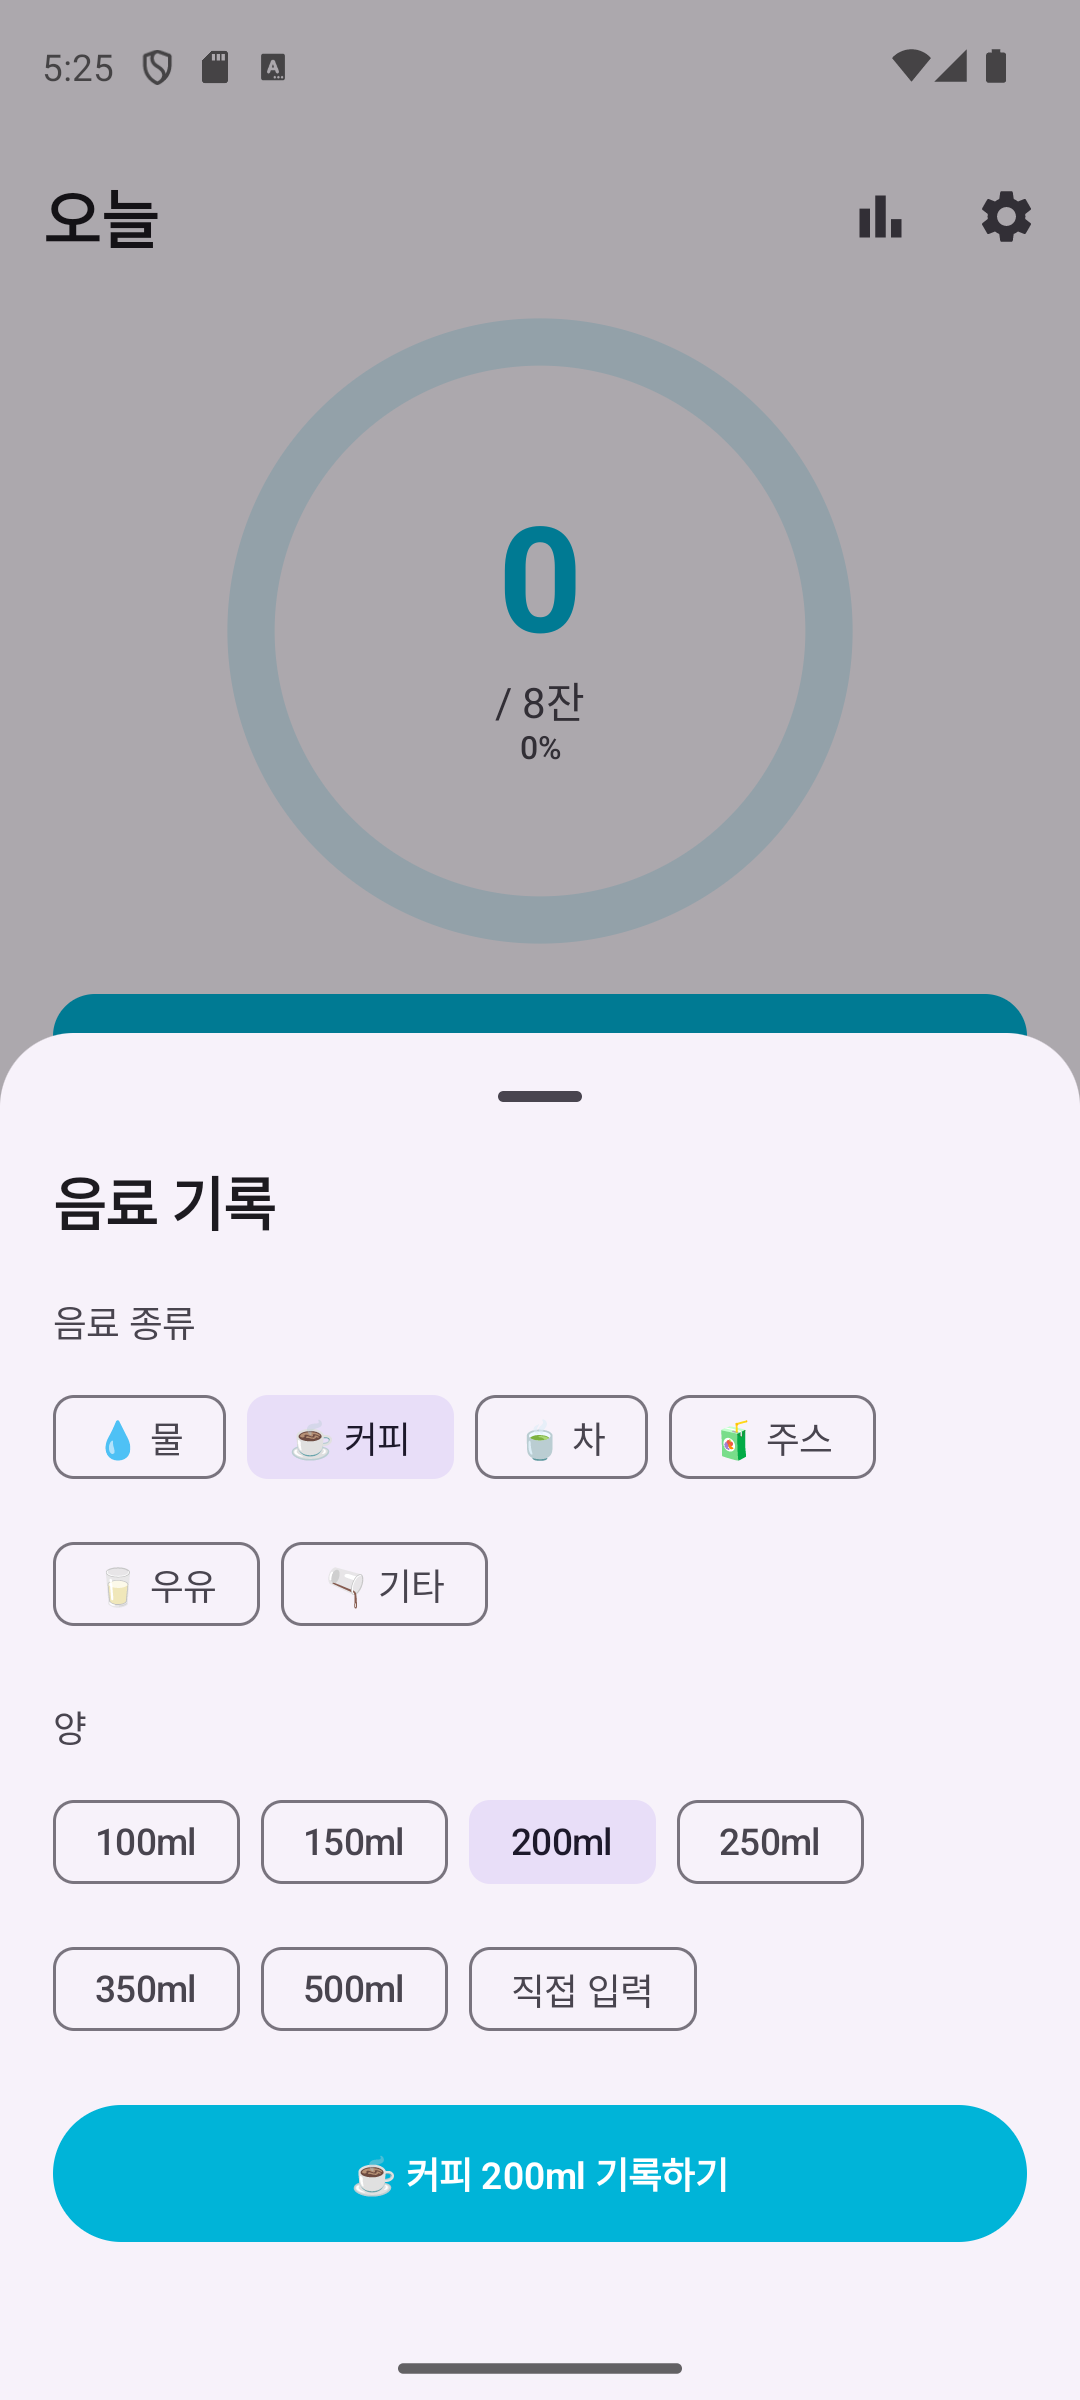
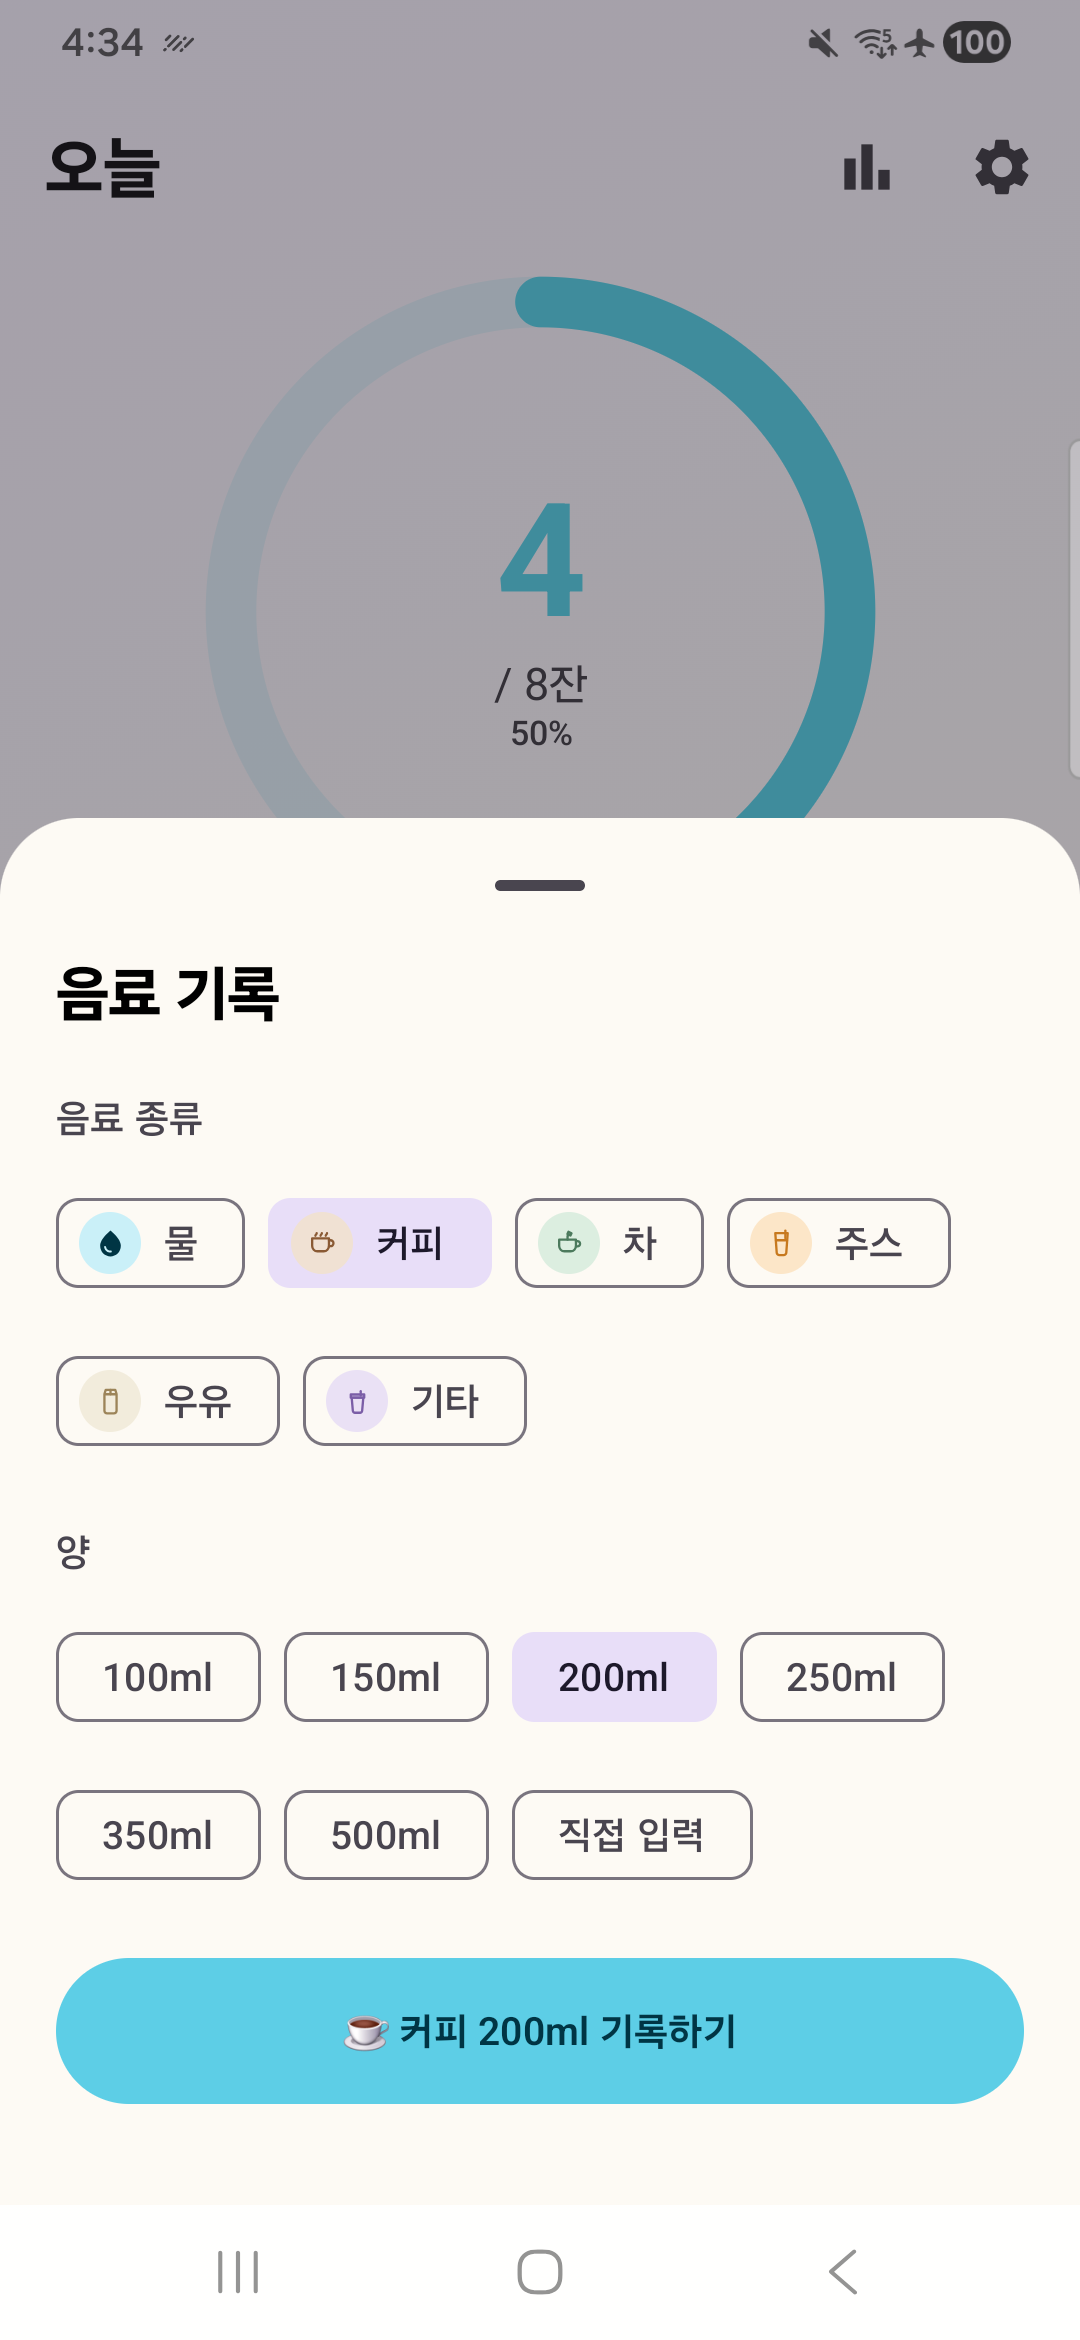
[docs] 스토어 설명 줄바꿈 정리 + 스크린샷 5장 최신 디자인으로 재촬영
전체 설명 일부 문장이 수식어-피수식어 사이에서 어색하게 줄바꿈되던
문제 수정(문단당 한 줄로 통일). 01/02/04/05/06 스크린샷을 구버전
에뮬레이터 촬영본에서 실기기(Galaxy A25) 최신 디자인으로 교체

diff --git a/docs/개발보고서.md b/docs/개발보고서.md
@@ -1,11 +1,29 @@
 # 워터링 Android 개발보고서
 
-> 마지막 업데이트: 2026-07-09 (v0.31.49, 스마트 통계 연간 히트맵 다크모드 미달성 칸 저대비 수정 —
-> 잔여 항목 3번 해결). 출시 직전 체크리스트 릴리즈 서명·개발자 계정 인증 완료, Data Safety
-> 설문/콘텐츠 등급만 남음(Play Console 직접 진행). 라이트→다크 반영 누락 전수 조사 완료, 추가
-> 발견 없음(에이전트 조사 결과 아래 v0.31.49 섹션 참고).
+> 마지막 업데이트: 2026-07-09 (스토어 스크린샷 5장 실기기 최신 디자인으로 재촬영 + 스토어 설명
+> 줄바꿈 정리). 출시 직전 체크리스트 릴리즈 서명·개발자 계정 인증 완료, Data Safety 설문/콘텐츠
+> 등급만 남음(Play Console 직접 진행). 스토어 등록 관련 준비는 스크린샷·설명 전부 최신화 완료,
+> 남은 건 피처 그래픽(디자이너 작업 보류)뿐.
 
 ---
+
+## 2026-07-09 (버전 번호 없음) — 스토어 등록 자산 최신화
+
+- **배경**: 사용자가 웹으로 띄운 스토어 등록정보 미리보기(설명 + 스크린샷 6장)를 보고 두 가지
+  지적. (1) `docs/store/listing_ko.md` 전체 설명의 일부 문장이 어색한 위치에서 줄바꿈되어
+  있음(예: "버튼을 누르는" 다음 줄에 "불편함 없이" — 수식어와 피수식어 사이에서 끊김). (2)
+  `01_home.png`/`02_record_sheet.png`/`04_stats.png`/`05_settings.png`/`06_dark_mode.png`
+  5장이 구버전 디자인(에뮬레이터 촬영본, 일부는 이미 제거된 프리미엄 배너 노출)이라 최신 UI와
+  다름 — `03_widgets.png`만 이번 세션 초반에 이미 실기기로 교체돼 있었음
+- **구현**:
+  - `listing_ko.md`: 어색하게 끊긴 5개 문단을 각각 한 줄로 합침(Play 스토어는 자동 줄바꿈되므로
+    수동 줄바꿈이 불필요 — 애초에 문단당 한 줄로 쓰면 문제 재발 방지)
+  - 스크린샷 5장을 실기기(Galaxy A25)에서 재촬영: 테스트용으로 뒤섞여 있던 오늘 기록을 전부
+    취소(`마지막 취소` 반복)하고 물 4잔(150ml×4, 4/8·50%)으로 깔끔하게 재기록해 일관된 데이터로
+    촬영. `05_settings.png`는 알림 권한 배너가 뜨는 상태였어서 `adb shell pm grant
+    POST_NOTIFICATIONS`로 권한을 미리 허용한 뒤 알림 간격 "4시간"을 선택해 촬영(원본 캡션과
+    동일한 상태 유지)
+- **검증**: 각 스크린샷을 촬영 직후 육안 확인 후 바로 `docs/store/screenshots/`에 덮어씀
 
 ## v0.31.49 — 스마트 통계 연간 히트맵 다크모드 미달성 칸 저대비 수정 + 다크모드 전수 조사
 
@@ -2666,3 +2684,4 @@ SettingsScreen "구글로 로그인" 클릭
 | 2026-07-09 | [fix] v0.31.47 — 통계 화면 연속 기록 카드 다크모드 골드 보더 추가 |
 | 2026-07-09 | [fix] v0.31.48 — 설정 화면 섹션 헤더 다크모드 저대비 수정 (SettingsAccentColor 골드로 분기) |
 | 2026-07-09 | [fix] v0.31.49 — 스마트 통계 연간 히트맵 다크모드 미달성 칸 저대비 수정 (잔여 항목 3번 해결) |
+| 2026-07-09 | [docs] 스토어 설명 어색한 줄바꿈 정리 + 스크린샷 5장 실기기 최신 디자인으로 재촬영 |

diff --git a/docs/store/listing_ko.md b/docs/store/listing_ko.md
@@ -34,20 +34,16 @@
 ━━━━━━━━━━━━━━━━━━━━
 
 ■ 앱을 열지 않아도 기록 끝
-위젯을 한 번 탭하면 그걸로 끝입니다. 앱을 열고, 화면을 찾고, 버튼을 누르는
-불편함 없이 물 마시는 습관을 만들어보세요.
+위젯을 한 번 탭하면 그걸로 끝입니다. 앱을 열고, 화면을 찾고, 버튼을 누르는 불편함 없이 물 마시는 습관을 만들어보세요.
 
 ■ 물 말고도 커피·차·주스·우유까지
-물뿐만 아니라 하루에 마시는 다양한 음료를 함께 기록할 수 있어요. 음료 종류별로
-아이콘이 구분되어 오늘 뭘 마셨는지 한눈에 확인할 수 있습니다.
+물뿐만 아니라 하루에 마시는 다양한 음료를 함께 기록할 수 있어요. 음료 종류별로 아이콘이 구분되어 오늘 뭘 마셨는지 한눈에 확인할 수 있습니다.
 
 ■ 연속 기록으로 만드는 습관
-매일 목표를 달성하면 연속 기록이 쌓입니다. 작은 성취가 쌓여 진짜 습관이
-됩니다. 목표 달성 시 축하 애니메이션으로 동기부여를 더해드려요.
+매일 목표를 달성하면 연속 기록이 쌓입니다. 작은 성취가 쌓여 진짜 습관이 됩니다. 목표 달성 시 축하 애니메이션으로 동기부여를 더해드려요.
 
 ■ 나에게 맞는 알림
-알림 간격(30분~4시간)과 시간대를 자유롭게 설정하세요. 목표를 이미 달성한
-날에는 알림이 오지 않아요.
+알림 간격(30분~4시간)과 시간대를 자유롭게 설정하세요. 목표를 이미 달성한 날에는 알림이 오지 않아요.
 
 ■ 다크모드 완벽 지원
 시스템 설정에 따라 앱과 위젯 모두 자동으로 다크모드에 대응합니다.
@@ -56,8 +52,7 @@
 7일간의 기록을 그래프로 확인하고, 주간 평균과 달성한 날 수를 확인하세요.
 
 ■ 모든 기능 무료
-연속 기록 보호, 스마트 통계(30일 트렌드·연간 히트맵), CSV 내보내기, 위젯 컬러
-테마까지 — 별도 결제 없이 모든 기능을 사용할 수 있어요.
+연속 기록 보호, 스마트 통계(30일 트렌드·연간 히트맵), CSV 내보내기, 위젯 컬러 테마까지 — 별도 결제 없이 모든 기능을 사용할 수 있어요.
 
 ━━━━━━━━━━━━━━━━━━━━
 
